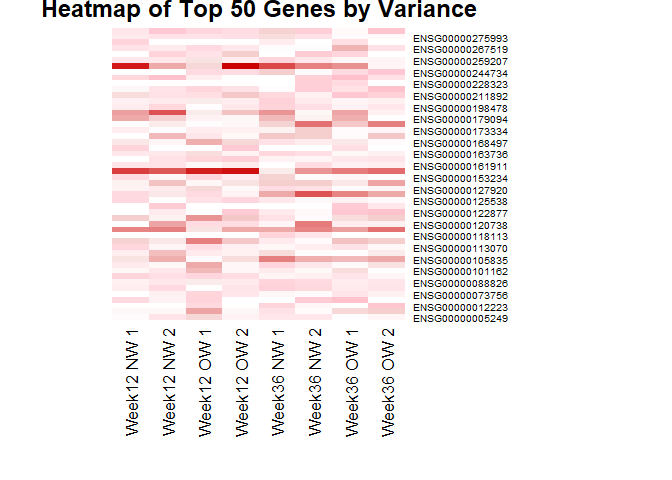
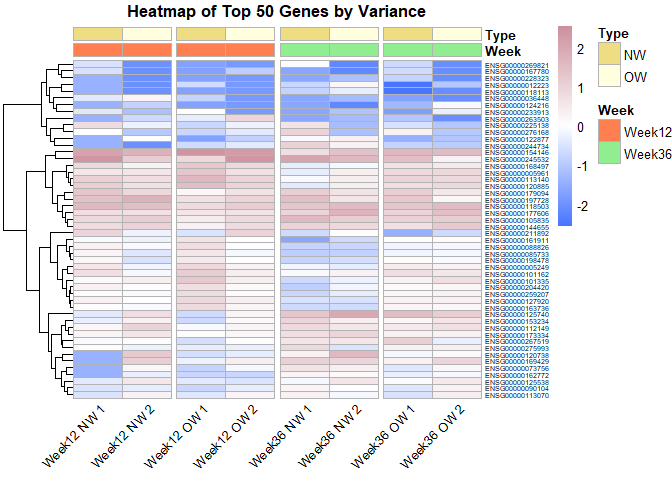
Finalization of data visualization

diff --git a/Projects/t1mge/lizzola_Project1.md b/Projects/t1mge/lizzola_Project1.md
@@ -8,6 +8,7 @@ Import the data
     library(kableExtra)
     library(knitr)
     library(fs)
+    library(pheatmap)
 
 
     if (!is.null(current_input())) {
@@ -185,6 +186,9 @@ transformed counts by rows and put it in a new column.
 
 ## Data visualization
 
+Rank all genes descendingly by variance. Keep only top 50
+highest-variance genes for the heat map.
+
     top50_genes <- heatmap_data %>%
       distinct(Gene, log2_CPM_variance) %>%
       slice_max(log2_CPM_variance, n = 50) %>%
@@ -198,29 +202,49 @@ transformed counts by rows and put it in a new column.
       column_to_rownames("Gene") %>%
       as.matrix()
 
-    desired_order <- c(
+    heatmap_matrix <- heatmap_matrix[, c(
       "Week12_NW_1", "Week12_NW_2", "Week12_OW_1", "Week12_OW_2",
       "Week36_NW_1", "Week36_NW_2", "Week36_OW_1", "Week36_OW_2"
-    )
-
-    heatmap_matrix <- heatmap_matrix[, desired_order]
+    )]
 
     colnames(heatmap_matrix) <- gsub("_", " ", colnames(heatmap_matrix))
 
-    png("heatmap.png", width = 800, height = 1200)
-    heatmap(heatmap_matrix,
-      scale = "column",
-      Rowv = NA,
-      Colv = NA,
-      col = colorRampPalette(c("pink", "white", "red3"))(100),
-      margins = c(10, 10),
-      main = "Heatmap of Top 50 Genes by Variance"
+    gaps <- seq(2, ncol(heatmap_matrix) - 1, by = 2)
+
+    annotation_colors <- list(
+      Week = c("Week12" = "coral", "Week36" = "lightgreen"),
+      Type = c("NW" = "lightgoldenrod", "OW" = "lightyellow")
     )
+
+    heatmap_matrix[is.na(heatmap_matrix)] <- 0
+
+    png("heatmap.png", width = 1200, height = 1200)
+    pheatmap(
+      heatmap_matrix,
+      cluster_rows = TRUE,
+      cluster_cols = FALSE,
+      annotation_colors = annotation_colors,
+      annotation_col = data.frame(
+        Week = factor(rep(c("Week12", "Week36"), each = 4)),
+        Type = factor(rep(c("NW", "OW"), times = 4)),
+        row.names = colnames(heatmap_matrix)
+      ),
+      scale = "column",
+      color = colorRampPalette(c("royalblue1", "white", "pink3"))(100),
+      main = "Heatmap of Top 50 Genes by Variance",
+      fontsize_row = 5,
+      fontsize_col = 10,
+      angle_col = 45,
+      border_color = "grey70",
+      gaps_col = gaps
+    )
+
+![](lizzola_Project1_files/figure-markdown_strict/heatmap%20plot-1.png)
 
     dev.off()
 
     ## png 
-    ##   2
+    ##   3
 
 <figure>
 <img src="heatmap.png" alt="Heatmap Top 50 Genes" />
